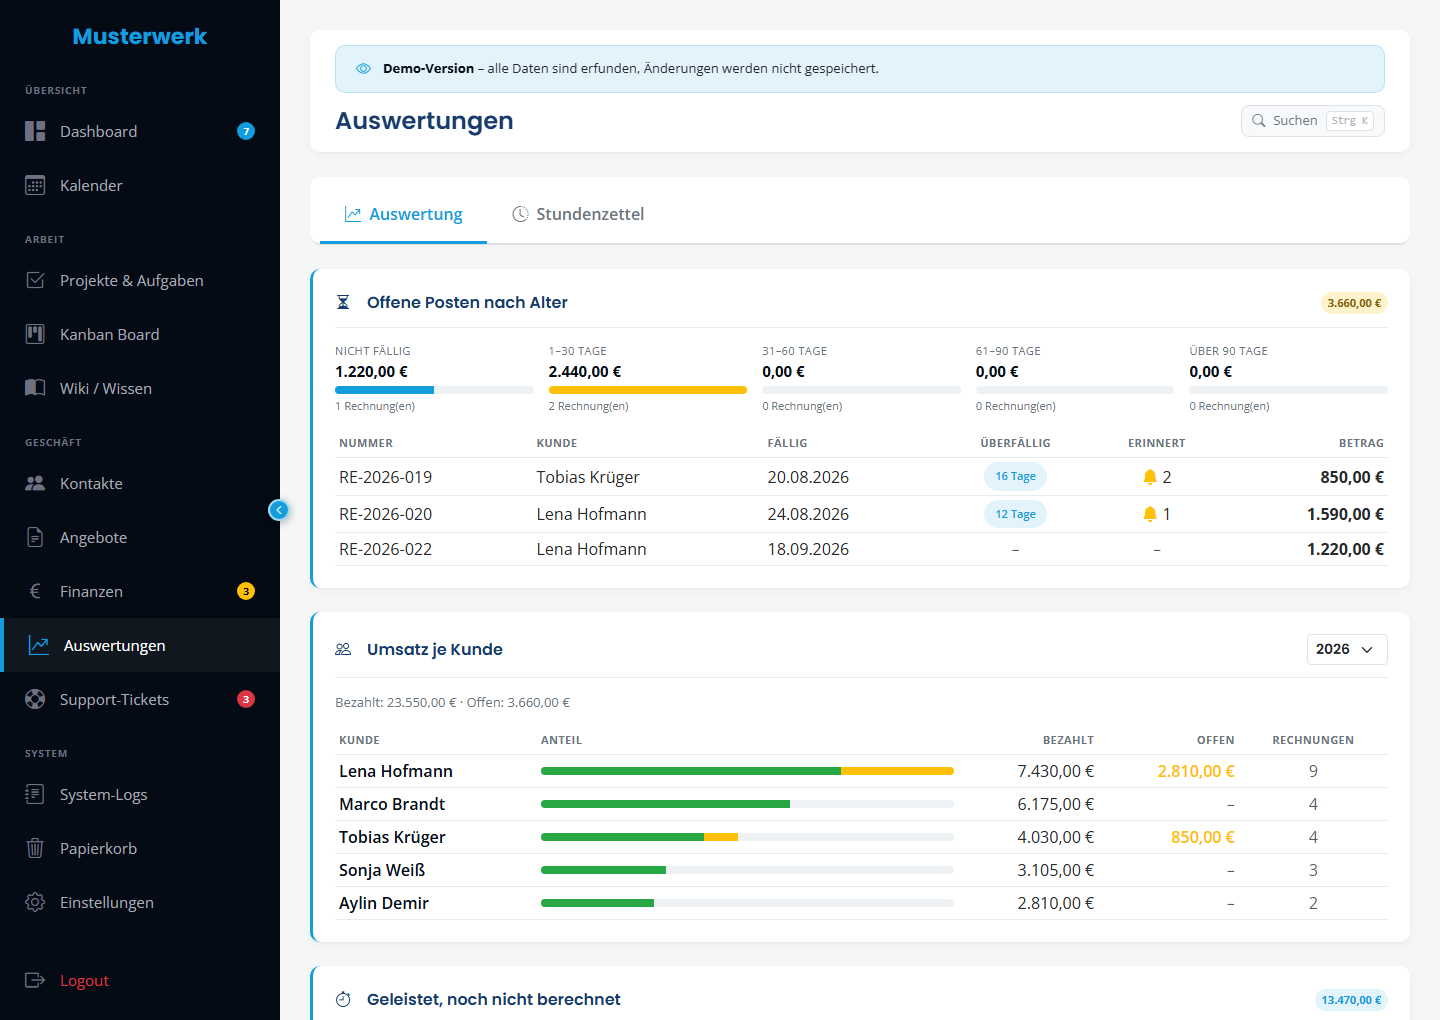
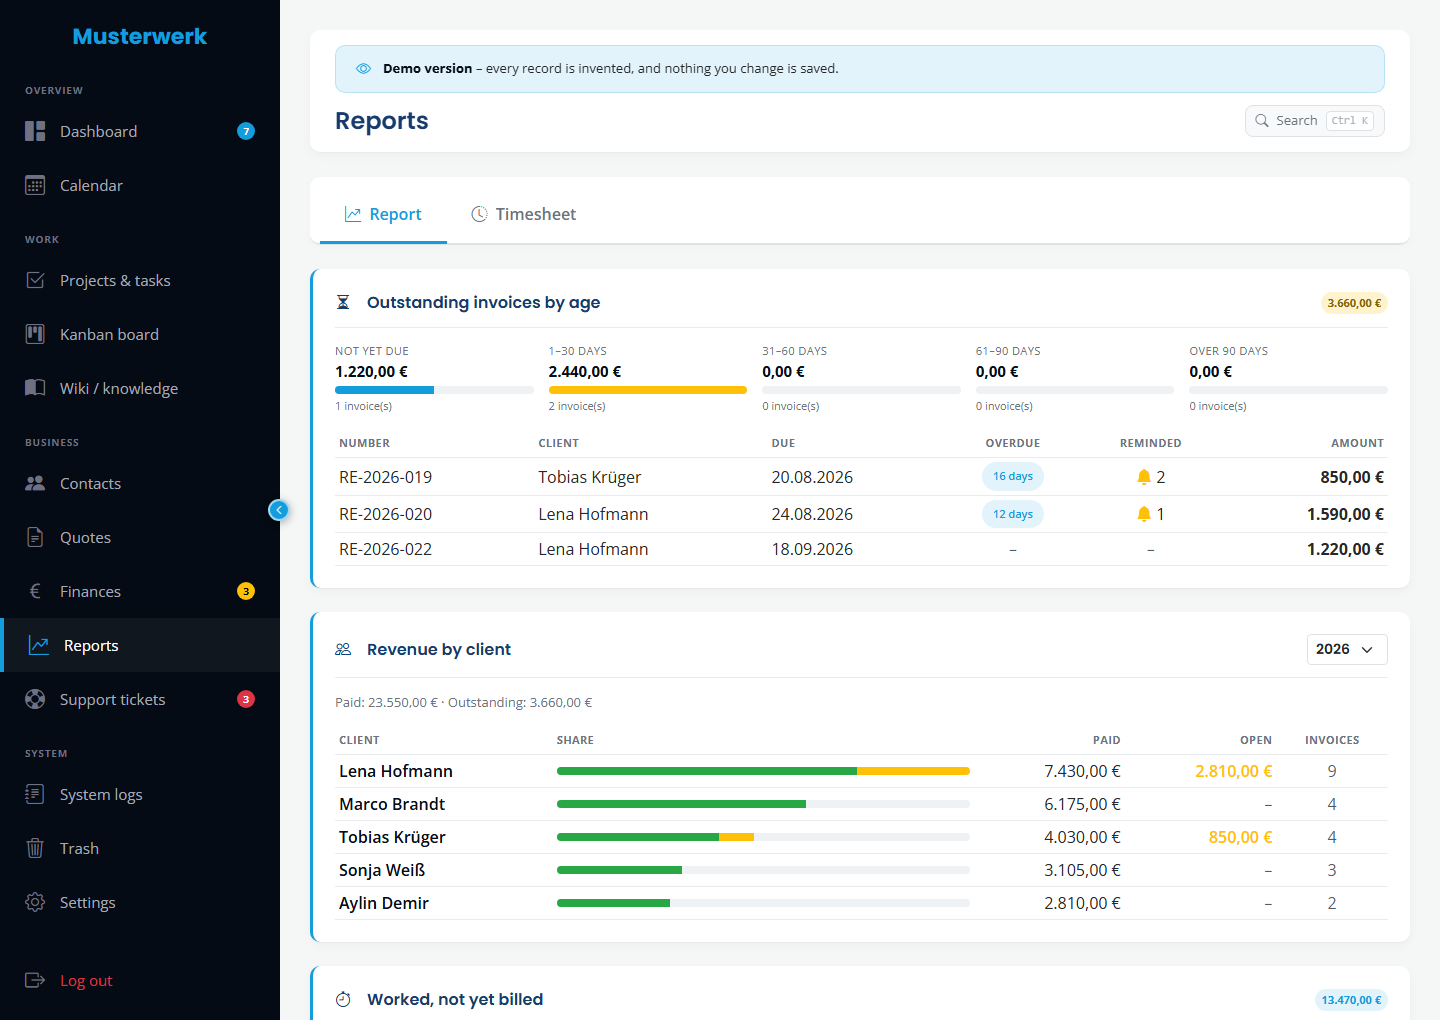
docs: capture the screenshots in English, and fix what that exposed
docs/screenshots/README.md said to capture German because "the English
interface is not finished: page-level action buttons, status badges,
chart labels and month names still come through in German", and to say
the opposite once it was. It is, so this does.

Capturing in English turned out to be the best test of the translation
there is. Five strings had never been wrapped, and all six pages had been
read in German often enough that nobody saw them:

- the portal greeting, where only the partner branch of the ternary went
  through te() and the client branch said "Willkommen" inside an
  otherwise English sentence
- the support-tickets counter next to it, same ternary, same half
- the progress line under each project, split as <?= $done ?> von
  <?= $total ?> around a bare "von" - untranslatable in that shape,
  because word order is exactly what changes between languages, so it is
  one sentence with two placeholders now
- the legend of the finance chart, still Einnahmen/Ausgaben under English
  month names
- the three deadline badges on the board, which the dashboard has been
  translating all along under the same keys

Project and quote status in the portal also went past datenwert(), while
invoice and ticket status two screens further along already used it.

The demo data stays German. Names, project titles and ticket subjects are
content, and they are what a German one-person shop would have in there;
the mix is honest about what the panel is.
[…]

diff --git a/portal.php b/portal.php
@@ -1110,7 +1110,7 @@ $is_partner = ($client['contact_type'] === 'Geschäftspartner');
         <?php endif; ?>
       </p>
       <h1 class="text-white fw-bold mb-1" style="font-family:'Poppins',sans-serif;font-size:clamp(22px,5vw,36px);">
-        <?= $is_partner ? te('Guten Tag') : 'Willkommen' ?><?= $client['company'] ? ', '.htmlspecialchars($client['company']) : ', '.htmlspecialchars(explode(' ',$client['name'])[0]) ?>!
+        <?= $is_partner ? te('Guten Tag') : te('Willkommen') ?><?= $client['company'] ? ', '.htmlspecialchars($client['company']) : ', '.htmlspecialchars(explode(' ',$client['name'])[0]) ?>!
       </h1>
       <p class="text-white-50 mb-0 small"><?= $is_partner ? te('Ihr persönliches Partner-Portal') : te('Ihr persönliches Projektportal') ?></p>
     </div>
@@ -1132,7 +1132,7 @@ $is_partner = ($client['contact_type'] === 'Geschäftspartner');
       <?php endif; ?>
       <div class="portal-header-stat">
         <div class="stat-val" style="<?= $open_ticket_count > 0 ? 'color:var(--accent-danger);' : '' ?>"><?= $open_ticket_count ?></div>
-        <div class="stat-lbl"><?= $is_partner ? te('Offene Anfragen') : 'Support-Tickets' ?></div>
+        <div class="stat-lbl"><?= $is_partner ? te('Offene Anfragen') : te('Support-Tickets') ?></div>
       </div>
     </div><!-- /stats -->
   </div><!-- /container -->
@@ -1234,7 +1234,7 @@ $is_partner = ($client['contact_type'] === 'Geschäftspartner');
                 <?php endif; ?>
               </div>
               <div class="d-flex align-items-center gap-2 flex-shrink-0">
-                <span class="badge fw-semibold py-2 px-3 rounded-pill" style="background:color-mix(in srgb, <?= $s_color ?> 12%, transparent);color:<?= $s_color ?>;border:1px solid <?= $s_color ?>44;white-space:nowrap;"><?= htmlspecialchars($p['status']) ?></span>
+                <span class="badge fw-semibold py-2 px-3 rounded-pill" style="background:color-mix(in srgb, <?= $s_color ?> 12%, transparent);color:<?= $s_color ?>;border:1px solid <?= $s_color ?>44;white-space:nowrap;"><?= htmlspecialchars(datenwert($p['status'])) ?></span>
                 <i class="bi bi-chevron-down proj-chevron" style="<?= $p_idx !== 0 ? 'transform:rotate(-90deg);' : '' ?>"></i>
               </div>
             </div>
@@ -1247,7 +1247,7 @@ $is_partner = ($client['contact_type'] === 'Geschäftspartner');
               <div class="project-progress-fill <?= $prog==100?'complete':'' ?>" style="width:<?= $prog ?>%;"></div>
             </div>
             <?php if($total > 0): ?>
-              <div class="text-muted mt-1" style="font-size:11px;"><?= $done ?> von <?= $total ?> <?= te('Schritten abgeschlossen') ?></div>
+              <div class="text-muted mt-1" style="font-size:11px;"><?= te('%d von %d Schritten abgeschlossen', $done, $total) ?></div>
             <?php endif; ?>
           </div>
 
@@ -1567,7 +1567,7 @@ $is_partner = ($client['contact_type'] === 'Geschäftspartner');
                         style="<?= $ja   ? 'background:var(--state-success-bg);color:var(--state-success-fg);'
                                  : ($nein ? 'background:var(--state-danger-bg);color:var(--state-danger-fg);'
                                           : 'background:var(--state-warn-bg);color:var(--state-warn-fg);') ?>">
-                    <?= htmlspecialchars($q['status']) ?>
+                    <?= htmlspecialchars(datenwert($q['status'])) ?>
                   </span>
                 </div>
               </div>

diff --git a/board.php b/board.php
@@ -88,9 +88,11 @@ unset($task);
 function deadline_badge(string $deadline): string {
     if (empty($deadline) || str_contains($deadline, '0000')) return '';
     $days = (int)round((strtotime($deadline) - strtotime('today')) / 86400);
-    if ($days < 0)  return '<span class="k-badge k-badge-overdue"><i class="bi bi-alarm-fill me-1"></i>Überfällig</span>';
-    if ($days === 0) return '<span class="k-badge k-badge-today"><i class="bi bi-alarm me-1"></i>Heute</span>';
-    if ($days <= 3)  return '<span class="k-badge k-badge-soon"><i class="bi bi-clock me-1"></i>in ' . $days . ' T.</span>';
+    // Dieselben drei Beschriftungen wie auf dem Dashboard, dieselben
+    // Schluessel - hier waren sie nur nie verpackt worden.
+    if ($days < 0)  return '<span class="k-badge k-badge-overdue"><i class="bi bi-alarm-fill me-1"></i>' . t('Überfällig') . '</span>';
+    if ($days === 0) return '<span class="k-badge k-badge-today"><i class="bi bi-alarm me-1"></i>' . t('Heute') . '</span>';
+    if ($days <= 3)  return '<span class="k-badge k-badge-soon"><i class="bi bi-clock me-1"></i>' . t('in %d T.', $days) . '</span>';
     return '<span class="k-badge" style="color:var(--text-muted);border-color:var(--border-base);"><i class="bi bi-calendar3 me-1"></i>' . date('d.m.', strtotime($deadline)) . '</span>';
 }
 

diff --git a/lang/en.php b/lang/en.php
@@ -462,7 +462,7 @@ return [
     'Start egal'
         => 'Any start',
     'Startmonat egal'
-        => 'Any start month',
+        => 'Any month',
     'Deadline egal'
         => 'Any deadline',
     'Detaillierte Beschreibung…'
@@ -1682,8 +1682,8 @@ return [
         => 'Resources',
     'Wissen'
         => 'Knowledge',
-    'Schritten abgeschlossen'
-        => 'steps completed',
+    '%d von %d Schritten abgeschlossen'
+        => '%d of %d steps completed',
     'Unbekannt'
         => 'Unknown',
     'Hauptansprechpartner'
@@ -2095,6 +2095,12 @@ return [
         => "Tables",
     "in der Datenbank"
         => "in the database",
+    // ── Portal ──
+    "Willkommen"
+        => "Welcome",
+    "Support-Tickets"
+        => "Support tickets",
+
     // ── Vorlagen-Editor: Sprachfassungen ──
     "Sprache der Vorlage"
         => "Template language",

diff --git a/finances.php b/finances.php
@@ -1778,8 +1778,8 @@ require 'includes/layout_start.php';
         data: {
             labels: <?= json_encode($chart_labels) ?>,
             datasets: [
-                { label: 'Einnahmen', data: <?= json_encode($chart_inc) ?>, backgroundColor: cssVar('--accent-success'), borderRadius: 4 },
-                { label: 'Ausgaben', data: <?= json_encode($chart_exp) ?>, backgroundColor: cssVar('--accent-danger'), borderRadius: 4 }
+                { label: <?= tjs('Einnahmen') ?>, data: <?= json_encode($chart_inc) ?>, backgroundColor: cssVar('--accent-success'), borderRadius: 4 },
+                { label: <?= tjs('Ausgaben') ?>, data: <?= json_encode($chart_exp) ?>, backgroundColor: cssVar('--accent-danger'), borderRadius: 4 }
             ]
         },
         options: { 

diff --git a/docs/screenshots/README.md b/docs/screenshots/README.md
@@ -29,16 +29,25 @@ at a desktop width of 1440px and save as PNG into this directory:
 
 ## Which language
 
-Capture the **German** interface. The demo data is German — client names,
-project titles, ticket subjects — and the English interface is not
-finished: page-level action buttons, status badges, chart labels and month
-names still come through in German. An English shell around German content,
-with German buttons in it, looks worse in a screenshot than a German
-interface that is consistent with itself.
+Capture the **English** interface — the README around these images is in
+English, and the translation is complete: 1064 strings, `php
+tools/check_i18n.php` green.
 
-Switch it in Settings, or set `ui_language` in the `settings` table to `de`
-before capturing. When the English translation is complete, this section
-should say the opposite.
+The demo data stays German. Client names, project titles and ticket
+subjects are content, not interface, and they are what a German
+one-person shop would actually have in there. That mix is honest about
+what the panel is: an English shell over whatever you keep in it.
+
+Switch it in Settings, or start the capture instance with `--lang=en` as
+below.
+
+Capturing in English is also the best test of the translation there is. A
+string nobody wrapped shows up in a screenshot immediately, where it can
+hide for months in a page nobody reads in English. The last round found
+five: the portal greeting, the support-tickets counter, a progress line
+split around its own numbers, the chart legend on the finance page and
+the deadline badges on the board — each one a place where only one branch
+of a condition had been wrapped.
 
 ## A demo instance without a database server
 
@@ -48,7 +57,7 @@ it, and starts PHP's built-in server. No MySQL, no configuration, and the
 repository stays untouched.
 
 ```bash
-php tools/serve_demo.php --port=8099 --lang=de
+php tools/serve_demo.php --port=8099 --lang=en
 ```
 
 It skips the portal PIN (a POST, which a headless run cannot send) and
@@ -71,6 +80,12 @@ result every time. Edge and Chrome take the same flags:
   --screenshot="dashboard.png" \
   "http://localhost:8000/"
 ```
+
+Check that the port is really yours before you believe what you capture.
+A server left running from an earlier session holds the port, the new one
+fails to bind, and the shots come out of the old instance — the same
+pages, silently one branch out of date. `Get-CimInstance Win32_Process
+-Filter "Name='php.exe'"` shows the command line of each one.
 
 Two things worth doing before pressing the button:
 
